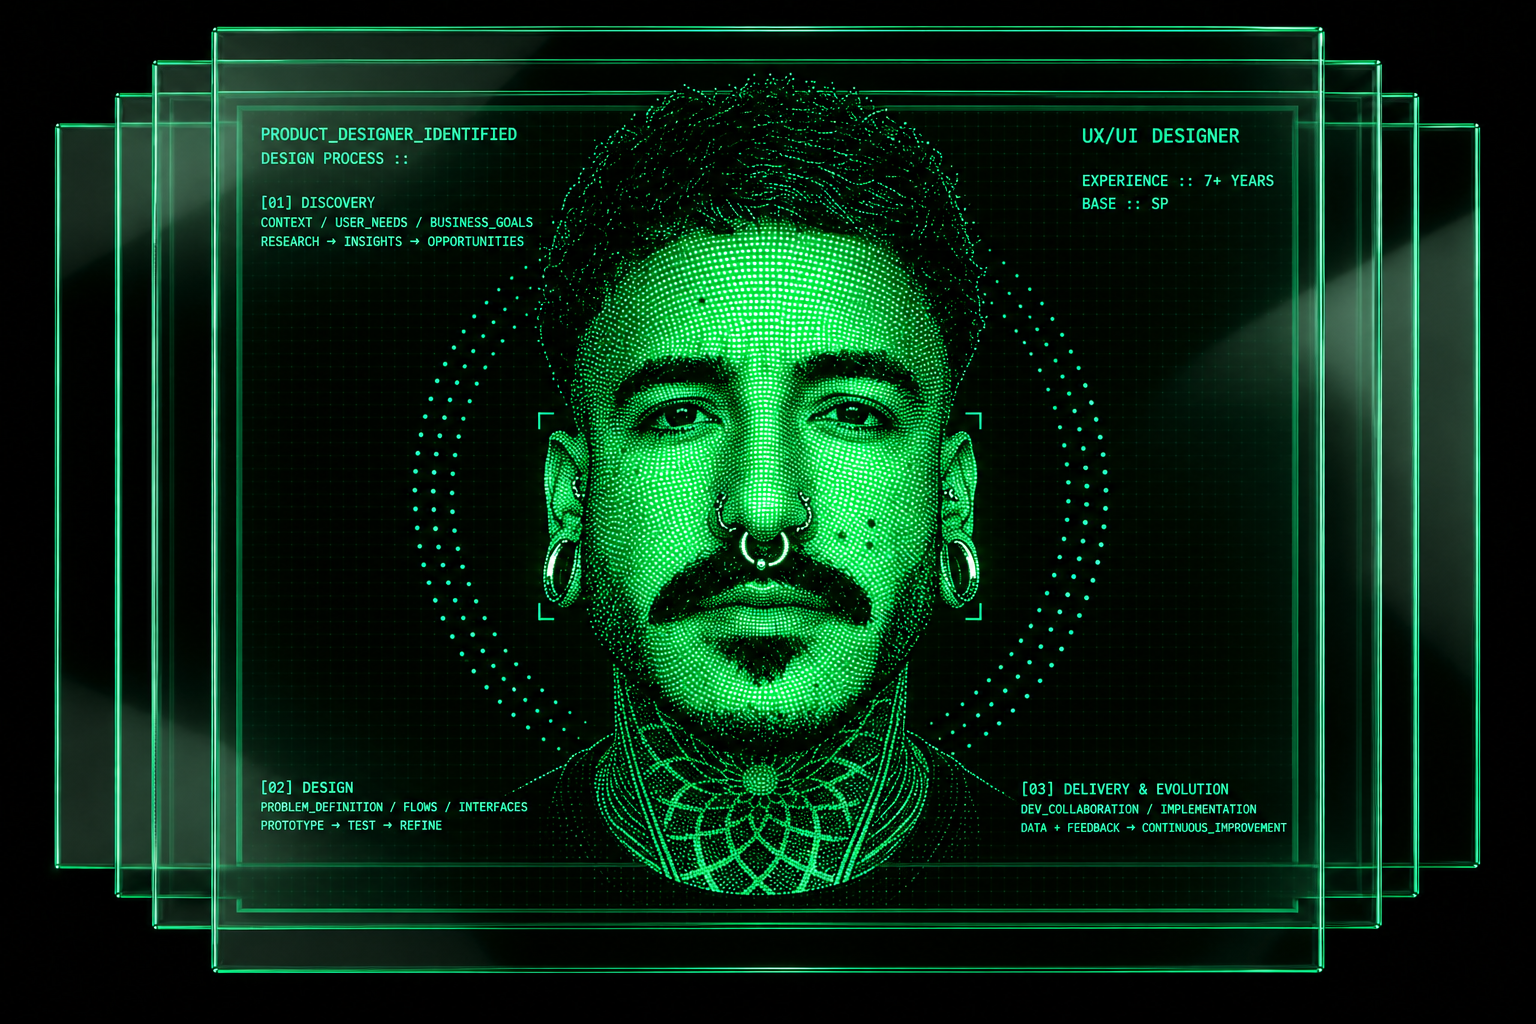
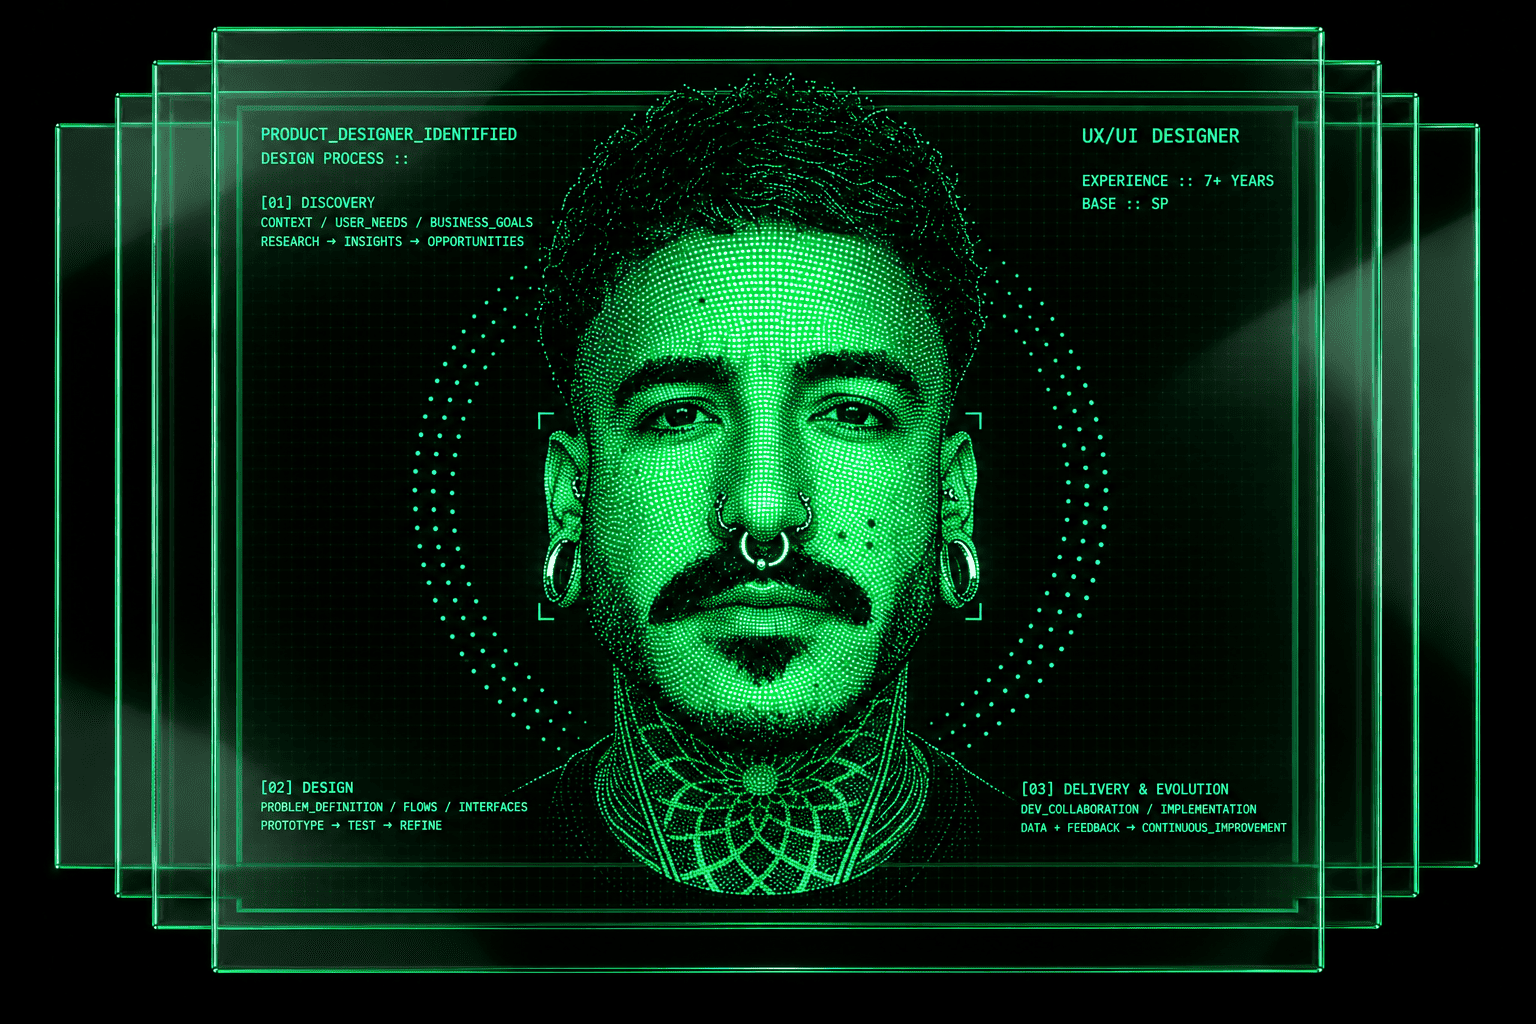
Atualiza imagens de sobre/hero/cases e suaviza scroll da hero até projetos

Changed region(s): [[0.4688, 0.4375, 0.5, 0.4688], [0.4688, 0.3125, 0.5, 0.3438]]

diff --git a/src/legacy/dom-enhancements.js b/src/legacy/dom-enhancements.js
@@ -209,3 +209,33 @@ setInterval(boot2,400);boot2();})();
   };
   setInterval(init,400);init();
 })();
+
+/* scroll suave para links âncora internos (ex.: "Conhecer projetos" na hero),
+   com easing custom em vez do behavior:'smooth' nativo (rápido demais) —
+   não mexe no hash da URL para não interferir no gate de intro.js. */
+(function(){
+  function easeInOutCubic(t){ return t<0.5 ? 4*t*t*t : 1-Math.pow(-2*t+2,3)/2; }
+  function smoothScrollTo(y, duration){
+    var startY = window.scrollY, dist = y - startY, startTime = null;
+    function step(ts){
+      if(startTime===null) startTime = ts;
+      var p = Math.min((ts-startTime)/duration, 1);
+      window.scrollTo(0, startY + dist*easeInOutCubic(p));
+      if(p<1) requestAnimationFrame(step);
+    }
+    requestAnimationFrame(step);
+  }
+  document.addEventListener('click', function(e){
+    var a = e.target.closest('a[href^="#"]');
+    if(!a) return;
+    var id = a.getAttribute('href').slice(1);
+    if(!id) return;
+    var target = document.getElementById(id);
+    if(!target) return;
+    e.preventDefault();
+    var reduce = window.matchMedia('(prefers-reduced-motion:reduce)').matches;
+    var nav = parseFloat(getComputedStyle(document.documentElement).getPropertyValue('--nav-height')) || 96;
+    var y = Math.max(target.getBoundingClientRect().top + window.scrollY - nav, 0);
+    if(reduce){ window.scrollTo(0, y); } else { smoothScrollTo(y, 900); }
+  });
+})();

diff --git a/src/styles/kit.css b/src/styles/kit.css
@@ -233,8 +233,8 @@ html[data-a11y-motion="reduce"] .kit-about__portrait:hover .kit-about__frame img
 #sobre .kit-caseshead{width:clamp(240px,26vw,400px);align-items:center;align-self:end;margin-bottom:0}
 #sobre .kit-caseshead .gb-circlabel{align-self:center;margin:0}
 @media (max-width:1024px){#sobre .kit-caseshead{width:min(100%,420px)}}
-.kit-about__titlewrap{padding-inline:48px;container-type:inline-size}
-.kit-about__title{margin:0;padding-left:0;text-align:left;font-size:min(5.1cqw,5rem);font-weight:var(--fw-bold);line-height:1.08;letter-spacing:-0.03em}
+.kit-about__titlewrap{padding-inline:0;container-type:inline-size}
+.kit-about__title{margin:0;padding-left:0;text-align:center;font-size:min(4.4cqw,3.75rem);font-weight:var(--fw-bold);line-height:1.08;letter-spacing:-0.03em}
 @media (min-width:1025px){.kit-about__title{white-space:nowrap}}
 .kit-charreveal .rc{color:var(--text-muted)}
 @media (prefers-reduced-motion:reduce){.kit-charreveal .rc{color:var(--text-primary) !important}}
